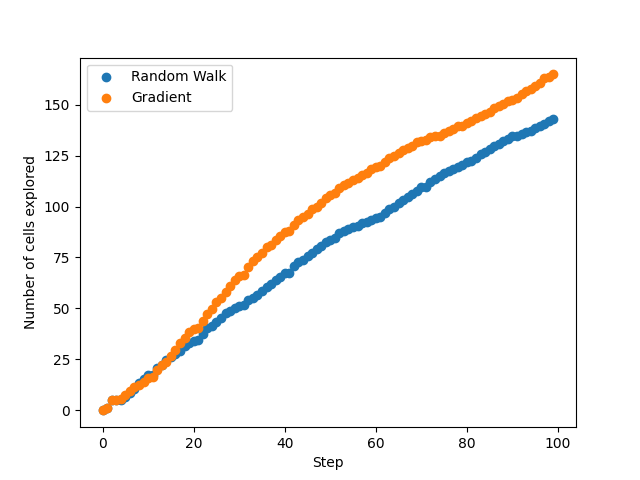
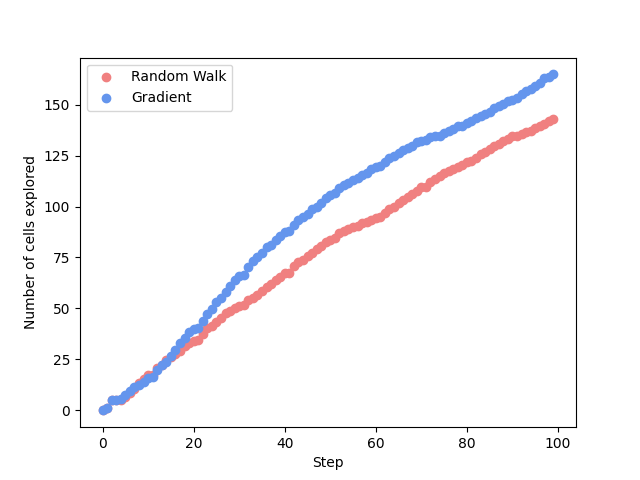
Modified graph colors

Changed region(s): [[0.1562, 0.125, 0.875, 0.875], [0.1562, 0.1562, 0.1875, 0.2188]]

diff --git a/sim/benchmarking/compute_metrics.py b/sim/benchmarking/compute_metrics.py
@@ -138,11 +138,12 @@ for folder in range(0, number_of_folders):
 
 
 x_axis = np.arange(number_of_steps_max)
+colors = ["lightcoral", "cornflowerblue"]
 
 fig = plt.figure()
 ax = fig.gca()
 for f in range(0, number_of_folders):
-    ax.scatter(x_axis, number_active_robots_step[f, :, :].mean(0))
+    ax.scatter(x_axis, number_active_robots_step[f, :, :].mean(0), c=colors[f])
 ax.set_xlabel("Step")
 ax.set_ylabel("Number of active robots")
 ax.legend(['Random Walk', 'Gradient'])
@@ -151,7 +152,7 @@ plt.savefig(figures_folder + "activerobots.png")
 fig = plt.figure()
 ax = fig.gca()
 for f in range(0, number_of_folders):
-    ax.scatter(x_axis, number_of_cases_explored[f, :, :].mean(0))
+    ax.scatter(x_axis, number_of_cases_explored[f, :, :].mean(0), c=colors[f])
 ax.set_xlabel("Step")
 ax.set_ylabel("Number of cells explored")
 ax.legend(['Random Walk', 'Gradient'])
@@ -160,7 +161,7 @@ plt.savefig(figures_folder + "explored.png")
 fig = plt.figure()
 ax = fig.gca()
 for f in range(0, number_of_folders):
-    ax.scatter(x_axis, scaled_amount_of_radiation[f, :, :].mean(0))
+    ax.scatter(x_axis, scaled_amount_of_radiation[f, :, :].mean(0), c=colors[f])
 ax.set_xlabel("Step")
 ax.set_ylabel("Amount of radiation per robot")
 ax.legend(['Random Walk', 'Gradient'])
@@ -169,7 +170,7 @@ plt.savefig(figures_folder + "radiation.png")
 fig = plt.figure()
 ax = fig.gca()
 for f in range(0, number_of_folders):
-    ax.scatter(x_axis, average_belief_error[f, :, :].mean(0))
+    ax.scatter(x_axis, average_belief_error[f, :, :].mean(0), c=colors[f])
 ax.set_xlabel("Step")
 ax.set_ylabel("Average Belief Error")
 ax.legend(['Random Walk', 'Gradient'])
@@ -178,7 +179,7 @@ plt.savefig(figures_folder + "error.png")
 fig = plt.figure()
 ax = fig.gca()
 for f in range(0, number_of_folders):
-    ax.scatter(x_axis, amount_transmitted[f, :, :].mean(0))
+    ax.scatter(x_axis, amount_transmitted[f, :, :].mean(0), c=colors[f])
 ax.set_xlabel("Step")
 ax.set_ylabel("Amount of data transmitted per robot (B)")
 ax.legend(['Random Walk', 'Gradient'])
